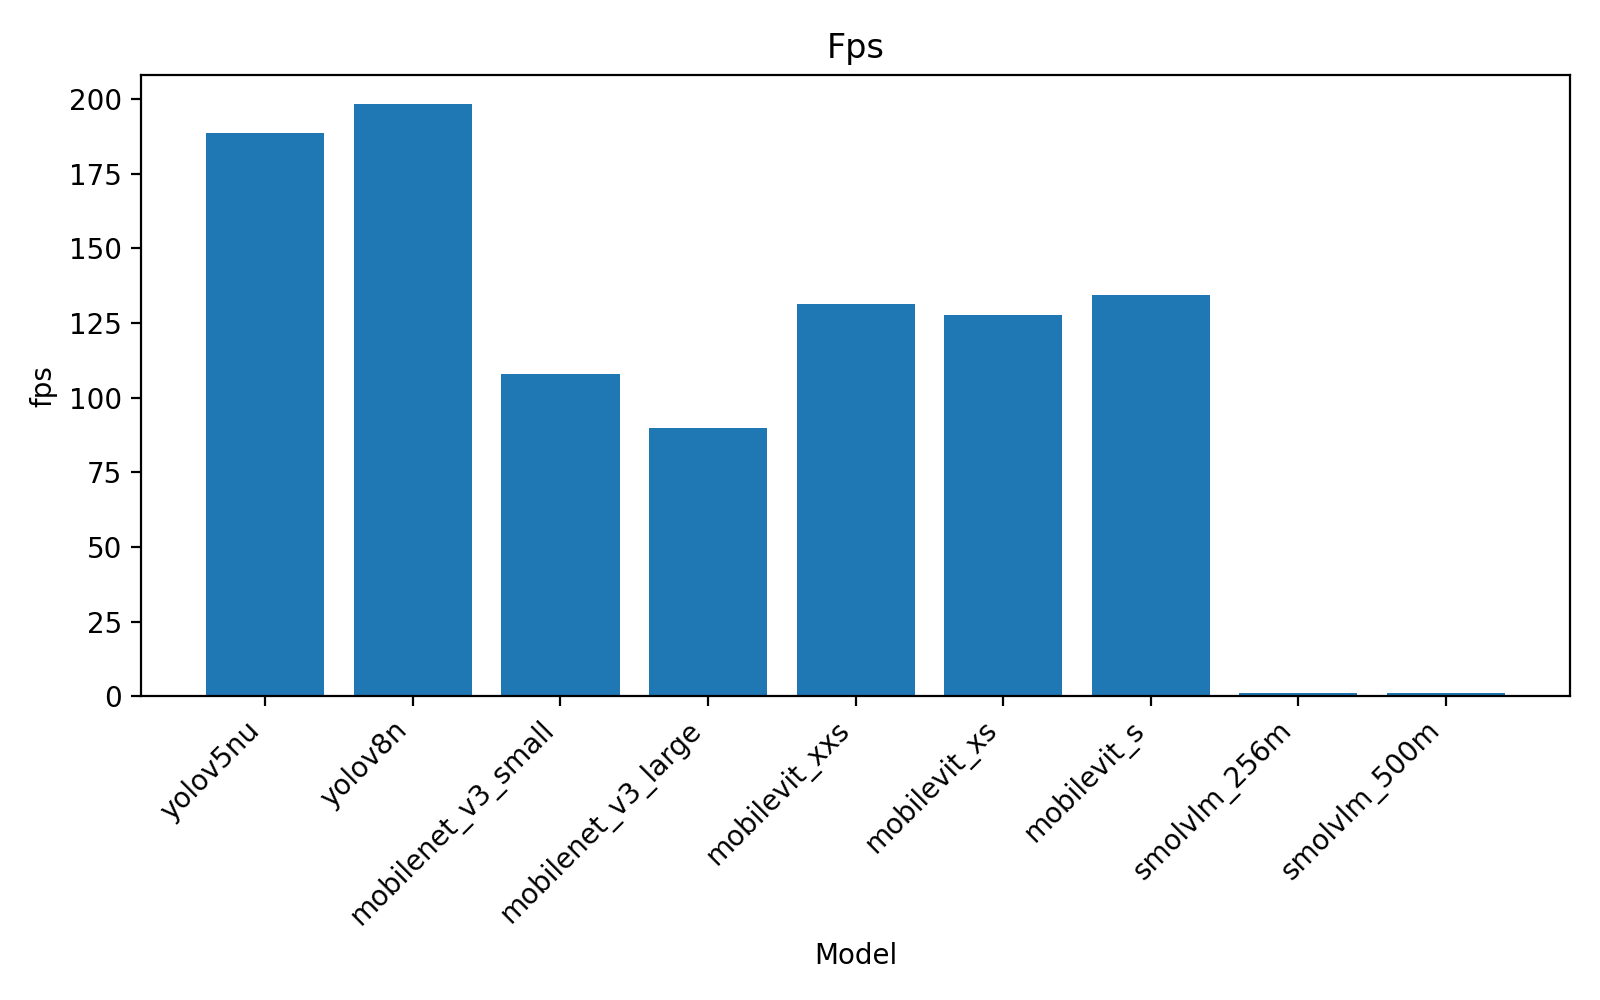
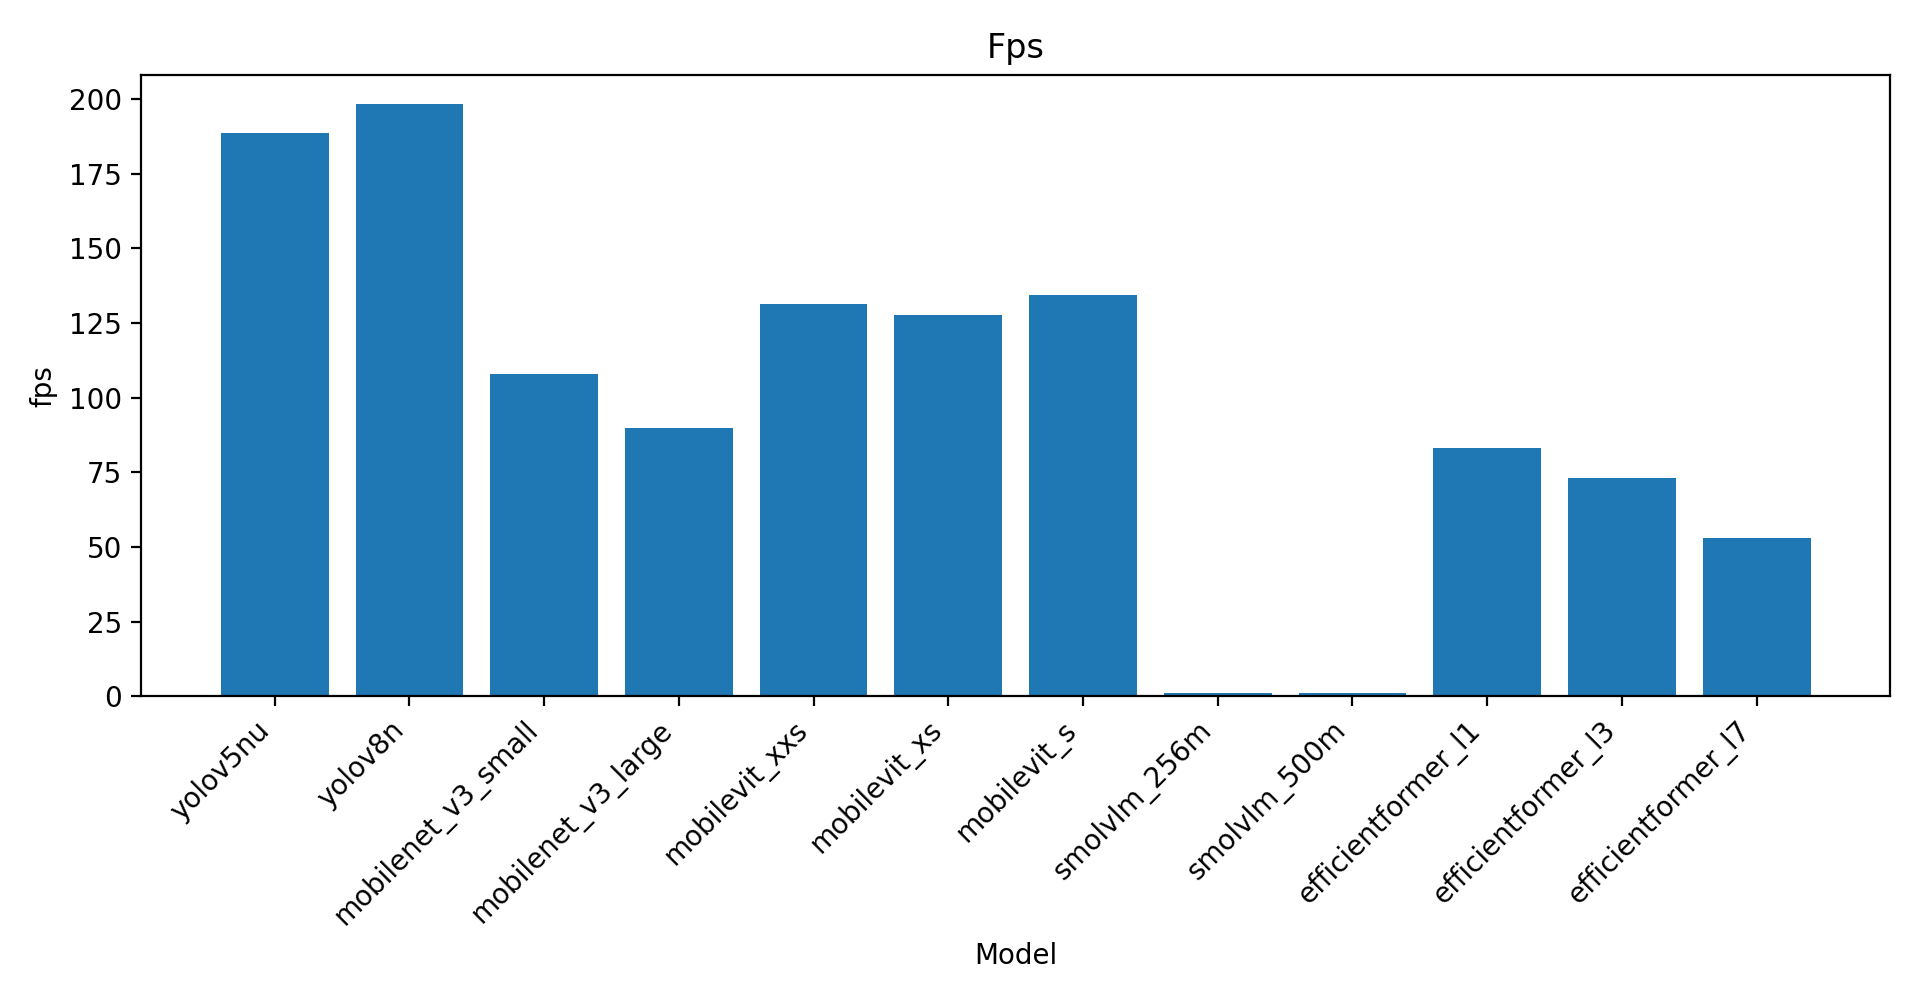
updated perfomance benchmark to include efficientformer in the results (was missing for some reason)

diff --git a/tests/test_model_loading_and_adapters.py b/tests/test_model_loading_and_adapters.py
@@ -7,6 +7,12 @@ import torch
 from PIL import Image
 
 import src.load_model as load_model_module
+from src.constants import (
+    EFFICIENTFORMER_MODEL_IDS,
+    MOBILEVIT_MODEL_IDS,
+    SMOLVLM_MODEL_IDS,
+    YOLO_MODEL_CHECKPOINTS,
+)
 from src.performance_benchmark.model_inference_adapter import ModelInferenceAdapter
 
 
@@ -90,6 +96,24 @@ def install_fake_model_modules(monkeypatch) -> None:
 
 def make_image(path: Path) -> None:
     Image.new("RGB", (2, 2), color="white").save(path)
+
+
+def test_all_registered_models_route_through_load_model(monkeypatch) -> None:
+    install_fake_model_modules(monkeypatch)
+
+    expected_model_names = (
+        set(YOLO_MODEL_CHECKPOINTS)
+        | {"mobilenet_v3_small", "mobilenet_v3_large"}
+        | set(MOBILEVIT_MODEL_IDS)
+        | set(EFFICIENTFORMER_MODEL_IDS)
+        | set(SMOLVLM_MODEL_IDS)
+    )
+
+    assert set(load_model_module.MODEL_LOADERS) == expected_model_names
+
+    for model_name in sorted(expected_model_names):
+        model = load_model_module.load_model(model_name)
+        assert isinstance(model, FakeModel)
 
 
 def test_model_registry_cache_detection_and_cli(monkeypatch, tmp_path, capsys) -> None:

diff --git a/experiments/performance/system_performance.py b/experiments/performance/system_performance.py
@@ -12,7 +12,11 @@ sys.path.insert(0, str(REPO_ROOT_FOR_IMPORTS))
 from src.constants import (  # noqa: E402
     COCO_IMAGES_DIR,
 )
-from experiments.performance.constants import ALL_LOADED, RESULTS_CSV  # noqa: E402
+from experiments.performance.constants import (  # noqa: E402
+    ALL_LOADED,
+    ALL_LOADED_EXCLUDED_MODELS,
+    RESULTS_CSV,
+)
 from src.load_model import (  # noqa: E402
     MODEL_LOADERS,
     get_downloaded_model_names,
@@ -82,7 +86,11 @@ def resolve_model_names(
             parser.error(f"{ALL_LOADED} cannot be combined with explicit model names.")
 
         # This only selects checkpoints found under models/, not global caches.
-        downloaded_models = get_downloaded_model_names()
+        downloaded_models = [
+            model_name
+            for model_name in get_downloaded_model_names()
+            if model_name not in ALL_LOADED_EXCLUDED_MODELS
+        ]
         if not downloaded_models:
             parser.error("No downloaded model checkpoints were found under models/.")
         return downloaded_models

diff --git a/tests/test_experiment_scripts.py b/tests/test_experiment_scripts.py
@@ -105,7 +105,7 @@ def test_system_performance_runner_flow(monkeypatch, tmp_path) -> None:
     monkeypatch.setattr(
         system_performance,
         "get_downloaded_model_names",
-        lambda: ["yolov5nu", "mobilenet_v3_small"],
+        lambda: ["yolov5nu", "smolvlm_2b", "mobilenet_v3_small"],
     )
     assert system_performance.resolve_model_names(
         [system_performance.ALL_LOADED],
@@ -117,7 +117,11 @@ def test_system_performance_runner_flow(monkeypatch, tmp_path) -> None:
             [system_performance.ALL_LOADED, "yolov5nu"],
             parser,
         )
-    monkeypatch.setattr(system_performance, "get_downloaded_model_names", lambda: [])
+    monkeypatch.setattr(
+        system_performance,
+        "get_downloaded_model_names",
+        lambda: ["smolvlm_2b"],
+    )
     with pytest.raises(SystemExit):
         system_performance.resolve_model_names([system_performance.ALL_LOADED], parser)
 

diff --git a/experiments/performance/constants.py b/experiments/performance/constants.py
@@ -10,6 +10,9 @@ from src.constants import SYSTEM_PERFORMANCE_RESULTS_CSV
 # Special --model value that expands to every checkpoint already present locally.
 ALL_LOADED = "all-loaded"
 
+# Supported explicitly, but skipped by all-loaded because it can exceed local GPU RAM.
+ALL_LOADED_EXCLUDED_MODELS = {"smolvlm_2b"}
+
 
 ###############
 # Result Paths

diff --git a/experiments/performance/README.md b/experiments/performance/README.md
@@ -29,7 +29,9 @@ uv run python experiments/performance/system_performance.py --model all-loaded -
 
 The `all-loaded` option checks for model weight files under `models/`. It does
 not select empty cache directories or checkpoints that only exist in a global
-library cache.
+library cache. It also skips models listed in `ALL_LOADED_EXCLUDED_MODELS`,
+currently `smolvlm_2b`, because that checkpoint can exceed common local GPU
+memory. You can still benchmark it explicitly with `--model smolvlm_2b`.
 
 The benchmark uses all validation images by default. Use `--num-images` for a
 smaller run. The same limit is applied to every selected model:

diff --git a/experiments/README.md b/experiments/README.md
@@ -30,6 +30,9 @@ Run every checkpoint already downloaded under `models/`:
 uv run python experiments/performance/system_performance.py --model all-loaded --device cuda:0
 ```
 
+`all-loaded` skips models that are known to be too large for common local GPU
+runs, currently `smolvlm_2b`. Explicit model selection still works.
+
 Use `--num-images` for a smaller test run and `-o` to overwrite the existing
 CSV before writing the new results:
 
